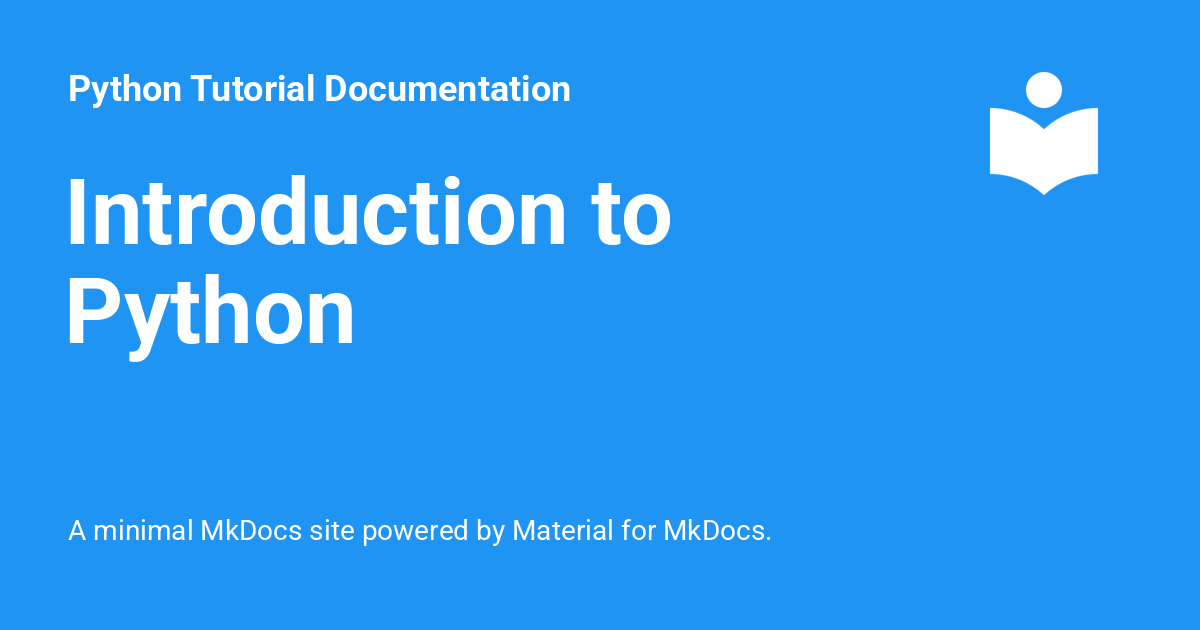
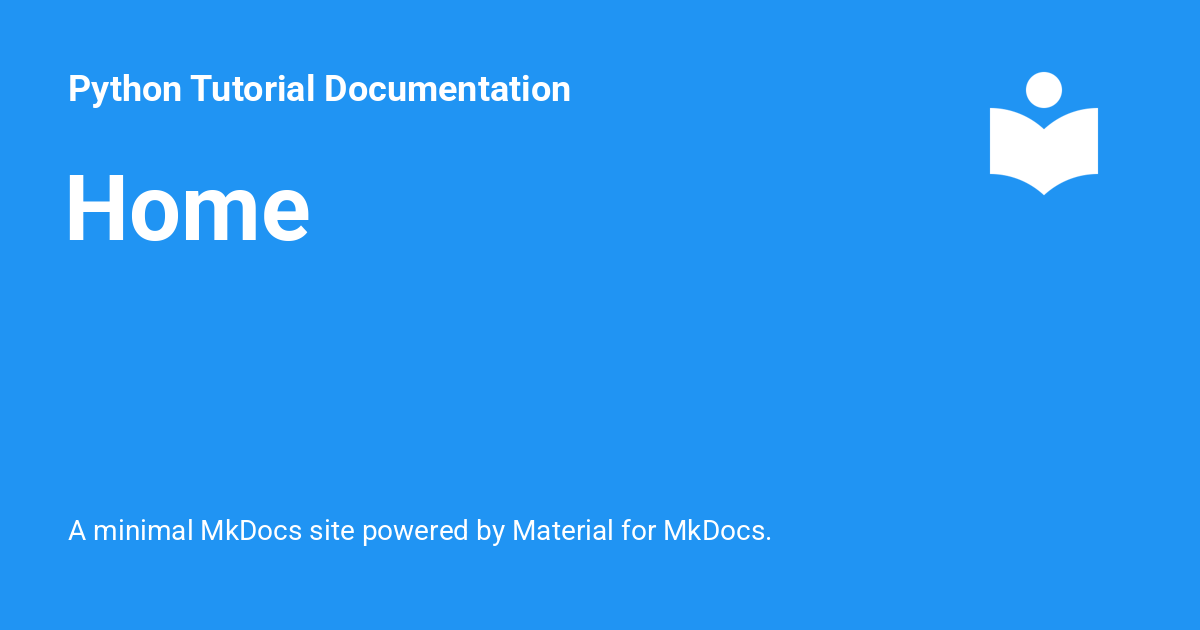
update the readme file

Changed region(s): [[0.0617, 0.2714, 0.5858, 0.3921], [0.0308, 0.4222, 0.3083, 0.573]]

diff --git a/site/index.html b/site/index.html
@@ -99,11 +99,6 @@
     <label class="md-overlay" for="__drawer"></label>
     <div data-md-component="skip">
       
-        
-        <a href="#introduction-to-python" class="md-skip">
-          Skip to content
-        </a>
-      
     </div>
     <div data-md-component="announce">
       
@@ -134,7 +129,7 @@
         <div class="md-header__topic" data-md-component="header-topic">
           <span class="md-ellipsis">
             
-              Introduction to Python
+              Home
             
           </span>
         </div>
@@ -878,29 +873,9 @@
 
 
 
-<h1 id="introduction-to-python">Introduction to Python<a class="headerlink" href="#introduction-to-python" title="Permanent link">&para;</a></h1>
-<p>Welcome to Python basics!</p>
-<h2 id="what-is-python">What is Python?<a class="headerlink" href="#what-is-python" title="Permanent link">&para;</a></h2>
-<p>Python is a high-level, interpreted programming language known for its simplicity and readability. It is widely used in web development, data science, automation, artificial intelligence, and more.</p>
-<h2 id="key-features-of-python">Key Features of Python<a class="headerlink" href="#key-features-of-python" title="Permanent link">&para;</a></h2>
-<ul>
-<li><strong>Easy to Learn</strong>: Python has a clean and readable syntax.</li>
-<li><strong>Versatile</strong>: Can be used for various applications, from web apps to machine learning.</li>
-<li><strong>Extensive Libraries</strong>: Rich ecosystem of packages for every need.</li>
-<li><strong>Cross-platform</strong>: Runs on Windows, macOS, and Linux.</li>
-</ul>
-<h2 id="basic-syntax-example">Basic Syntax Example<a class="headerlink" href="#basic-syntax-example" title="Permanent link">&para;</a></h2>
-<p>```python</p>
-<h1 id="this-is-a-comment">This is a comment<a class="headerlink" href="#this-is-a-comment" title="Permanent link">&para;</a></h1>
-<p>print("Hello, World!")</p>
-<h1 id="variables">Variables<a class="headerlink" href="#variables" title="Permanent link">&para;</a></h1>
-<p>name = "Alice"
-age = 25</p>
-<h1 id="conditional-statement">Conditional statement<a class="headerlink" href="#conditional-statement" title="Permanent link">&para;</a></h1>
-<p>if age &gt; 18:
-    print(f"{name} is an adult.")
-else:
-    print(f"{name} is not an adult.")</p>
+  <h1>Home</h1>
+
+<p><meta http-equiv="refresh" content="0; url=chapter_1_introduction/introduction/" /></p>
 
 
 

diff --git a/site/chapter_5_functions/5_functions_tutorial/index.html b/site/chapter_5_functions/5_functions_tutorial/index.html
@@ -2845,7 +2845,7 @@ func2()</div>
 </div>
 </div>
 </div><div class="jp-Cell jp-CodeCell jp-Notebook-cell">
-<div class="jp-Cell jp-CodeCell jp-Notebook-cell" id="cell-id=e1a9ee90">
+<div class="jp-Cell jp-CodeCell jp-Notebook-cell" id="cell-id=56ceff48">
 <div class="jp-Cell-inputWrapper" tabindex="0">
 <div class="jp-Collapser jp-InputCollapser jp-Cell-inputCollapser">
 </div>
@@ -2898,7 +2898,7 @@ outside function :  10
 </div>
 </div>
 </div><div class="jp-Cell jp-CodeCell jp-Notebook-cell jp-mod-noOutputs">
-<div class="jp-Cell jp-CodeCell jp-Notebook-cell jp-mod-noOutputs" id="cell-id=08bab598">
+<div class="jp-Cell jp-CodeCell jp-Notebook-cell jp-mod-noOutputs" id="cell-id=1db7db08">
 <div class="jp-Cell-inputWrapper" tabindex="0">
 <div class="jp-Collapser jp-InputCollapser jp-Cell-inputCollapser">
 </div>
@@ -2952,7 +2952,7 @@ outside function :  10
 </div>
 </div>
 </div><div class="jp-Cell jp-CodeCell jp-Notebook-cell jp-mod-noOutputs">
-<div class="jp-Cell jp-CodeCell jp-Notebook-cell jp-mod-noOutputs" id="cell-id=e9d72b86">
+<div class="jp-Cell jp-CodeCell jp-Notebook-cell jp-mod-noOutputs" id="cell-id=b0255bba">
 <div class="jp-Cell-inputWrapper" tabindex="0">
 <div class="jp-Collapser jp-InputCollapser jp-Cell-inputCollapser">
 </div>

diff --git a/Readme.md b/Readme.md
@@ -1,0 +1,19 @@
+## Python Notes using MKDocs
+
+### Run locally
+```
+git clone https://github.com/NirajanBekoju/python_notes
+
+mkdocs serve
+```
+
+
+### Build the Site
+```
+mkdocs build
+```
+
+### Deploy to the Github Pages
+```
+mkdocs gh-deploy
+```
